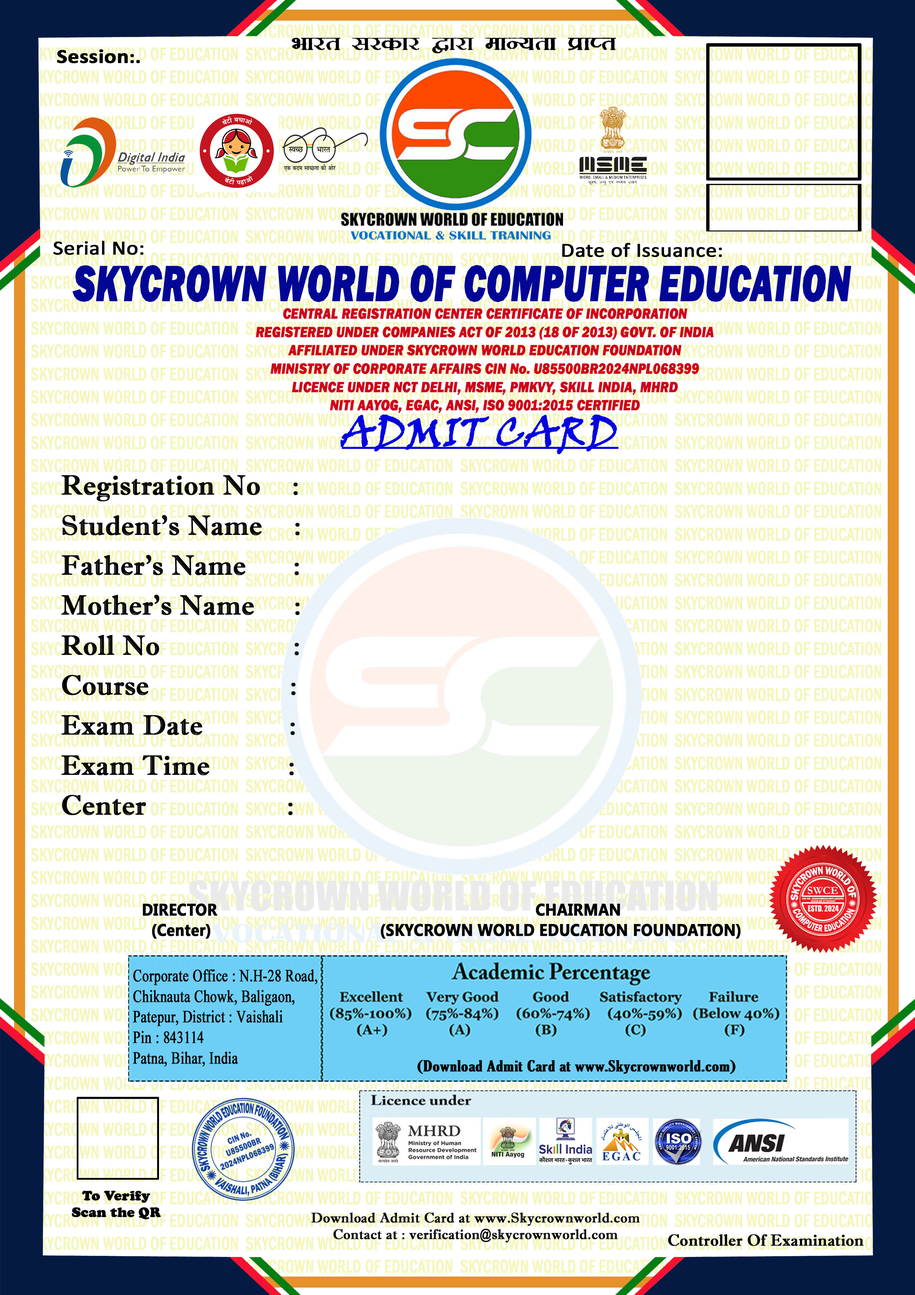
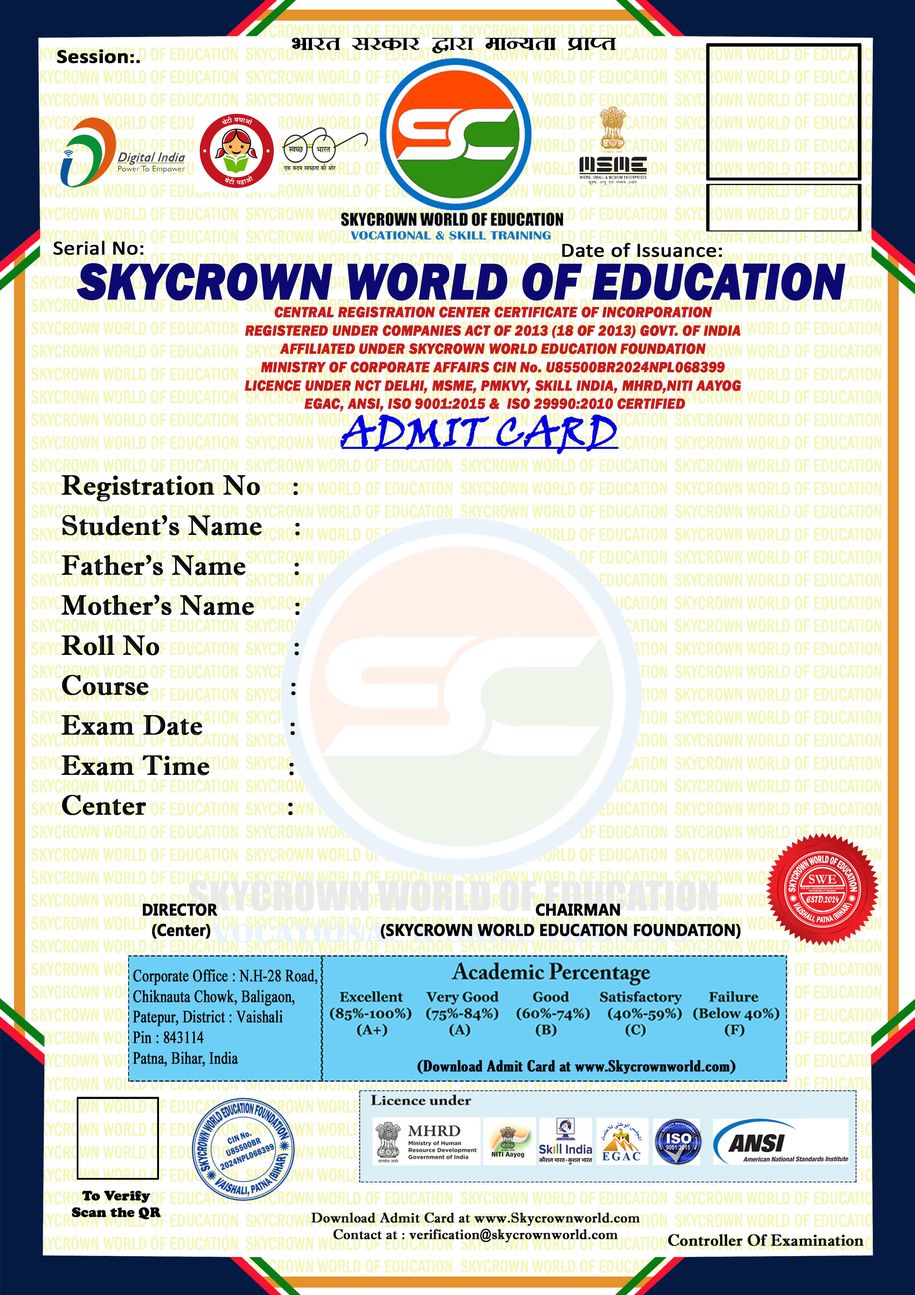
update documents of skycrownworld

Changed region(s): [[0.0621, 0.1864, 0.9315, 0.3418], [0.8383, 0.6214, 0.9625, 0.7457]]

diff --git a/assets/formats/skycrownworld/franchise_certificate.php b/assets/formats/skycrownworld/franchise_certificate.php
@@ -49,8 +49,8 @@
 
         #photo {
             z-index: 999;
-            bottom: 1%;
-            right: .1rem;
+            bottom: 2%;
+            right: 24px;
             background-color: white;
         }
         #photo img{
@@ -66,7 +66,7 @@
             border: 1px solid red
         }
         .m-c{
-            color: #8c52ff;
+            color: #0c3374;
         }
     </style>
 </head>
@@ -74,7 +74,7 @@
 $this->ki_theme->generate_qr($certificate_id, 'franchise_certificate', current_url());
 ?>
 <body class="position-relative">
-    <img id="back-image" class="position-relative" src="{document_path}/franchise-certificate.png">
+    <img id="back-image" class="position-relative" src="{document_path}/franchise-certificate.jpg">
     <div class="position-absolute" id="photo">
         <img src="upload/images/franchise_certificate_{certificate_id}.png" style="width:100px;padding:0">
     </div>
@@ -82,14 +82,18 @@ $this->ki_theme->generate_qr($certificate_id, 'franchise_certificate', current_u
         <img src="upload/{image}" style="width:94.7px;height:113px">
     </div> -->
     
-    <div class="position-absolute name" style="top:36%;left:9%;font-size:36px;width:80%;text-align:center;font-family:cursive">{name}</div>
-    <div class="position-absolute m-c" style="top:42%;left:25%;width:50%;text-align:center;text-transform:capitalize;font-size:40px">{institute_name}</div>
+    <!-- <div class="position-absolute name" style="top:36%;left:9%;font-size:36px;width:80%;text-align:center;font-family:cursive">{name}</div> -->
+    <div class="position-absolute " style="top:20%;left:20%;width:80%;text-align:center;">
+        <p style="text-transform:capitalize;font-size:40px;line-height:1" class="m-c">{institute_name}</p>
+        <p style="font-size:15px;color:#1f54ac">{center_full_address}</p>
+        <p style="font-size:15px">Mr. {name} Assessed and found to comply with</p>
+    </div>
 
-    <div class="position-absolute" style="top:50%;left:27%;width:50%;text-align:right;font-size:16px">{center_full_address}</div>
-    <div class="position-absolute" style="top:62%;left:25%;font-size:17px;">{center_number}</div>
+    <!-- <div class="position-absolute" style="top:50%;left:27%;width:50%;text-align:right;font-size:16px">{center_full_address}</div> -->
+    <div class="position-absolute" style="top:52.5%;left:63%;font-size:29px;color:#e5002b;"><b>{center_number}</b></div>
     
-    <div class="position-absolute" style="top:62%;left: 49%;font-size:17px">{certificate_issue_date}</div>
-    <div class="position-absolute" style="top:62%;left:72%;font-size:17px">{valid_upto}</div>
+    <div class="position-absolute" style="top:57.8%;left: 42%;font-size:17px">{certificate_issue_date}</div>
+    <div class="position-absolute" style="top:60%;left:42%;font-size:17px">{valid_upto}</div>
 
 
 </body>

diff --git a/assets/formats/skycrownworld/id-card.php b/assets/formats/skycrownworld/id-card.php
@@ -1,0 +1,70 @@
+<!DOCTYPE html>
+<html>
+
+<head>
+    <meta charset="utf-8">
+    <meta name="viewport" content="width=device-width, initial-scale=1" />
+    <title>{student_name} Id Card</title>
+    {basic_header_link}
+    <style>
+        body {
+            font-family: Arial, Helvetica, sans-serif;
+        }
+
+        .text-capitlize {
+            text-transform: capitalize;
+        }
+
+        .position-relative {
+            position: relative;
+        }
+
+        .position-absolute {
+            position: absolute;
+        }
+
+        .w-100 {
+            width: 100%;
+            display: grid;
+        }
+
+        p {
+            font-weight: bold;
+            color: black;
+            font-size: 19px;
+            width: 400px;
+            /* word-spacing: 1px; */
+        }
+
+        #photo {
+            z-index: 999;
+            top: 26.3%;
+            left: 21px;
+        }
+
+        .address {
+            width: 600px;
+            line-height: .9;
+        }
+    </style>
+</head>
+
+<body class="position-relative">
+    <img id="back-image" class="position-relative" src="{document_path}/id-card.jpg">
+    <div class="position-absolute" id="photo">
+        <img src="upload/{image}" style="width:197px;height:214px">
+    </div>
+    <p class="position-absolute" style="top:32%;left:40%">{roll_no}</p>
+    <p class="position-absolute" style="top:36%;left:40%">{student_name}</p>
+    <p class="position-absolute" style="top:40%;left:40%">{father_name}</p>
+    <p class="position-absolute address" style="top:44.2%;left:40%;">{address}</p>
+    <p class="position-absolute " style="top:48%;left:40%">{dob}</p>
+    <p class="position-absolute " style="top:52.2%;left:40%">{course_name}</p>
+    <p class="position-absolute " style="top:56.5%;left:40%">{center_name}</p>
+    <p class="position-absolute " style="top:60%;left:45%">{center_email}</p>
+    <div class="position-absolute" style="top:59.5%;left:5.2%;">
+        <img src="upload/images/id_card_{student_id}.png" style="width:178px;height:165px;" alt="">
+    </div>
+</body>
+
+</html>

diff --git a/modules/document/controllers/Document.php b/modules/document/controllers/Document.php
@@ -94,7 +94,7 @@ class Document extends MY_Controller
             }
             $this->ki_theme->generate_qr($get->row('student_id'), 'id_card', current_url());
             $pdfContent = $this->parse('id-card');
-            if (in_array(PATH, ['beautyguru'])) {
+            if (in_array(PATH, ['beautyguru','skycrownworld'])) {
                 // $certificate['serial_no'] = (50000 + $this->id);
                 $this->mypdf->addPage('L');
             }
@@ -390,7 +390,7 @@ class Document extends MY_Controller
                     $data['state'] = $this->SiteModel->state($data['state_id']);
                     $data['city'] = $this->SiteModel->city($data['city_id']);
                     $output = $this->parse('franchise_certificate', $data);
-                    if (in_array(PATH, ['techno', 'haptronworld','beautyguru', 'sewaedu','skycrownworld','softworldedu'])) {
+                    if (in_array(PATH, ['techno', 'haptronworld','beautyguru', 'sewaedu','softworldedu'])) {
                         $this->mypdf->addPage('L');
                     }
                     $this->pdf($output);

diff --git a/engine/models/Student_model.php b/engine/models/Student_model.php
@@ -37,6 +37,7 @@ class Student_model extends MY_Model
                 c.duration_type,
                 ce.institute_name as center_name,
                 ce.id as institute_id,
+                ce.email as center_email,
                 ce.center_full_address,
                 ce.center_number as center_code,
                 ce.signature as center_signature,
